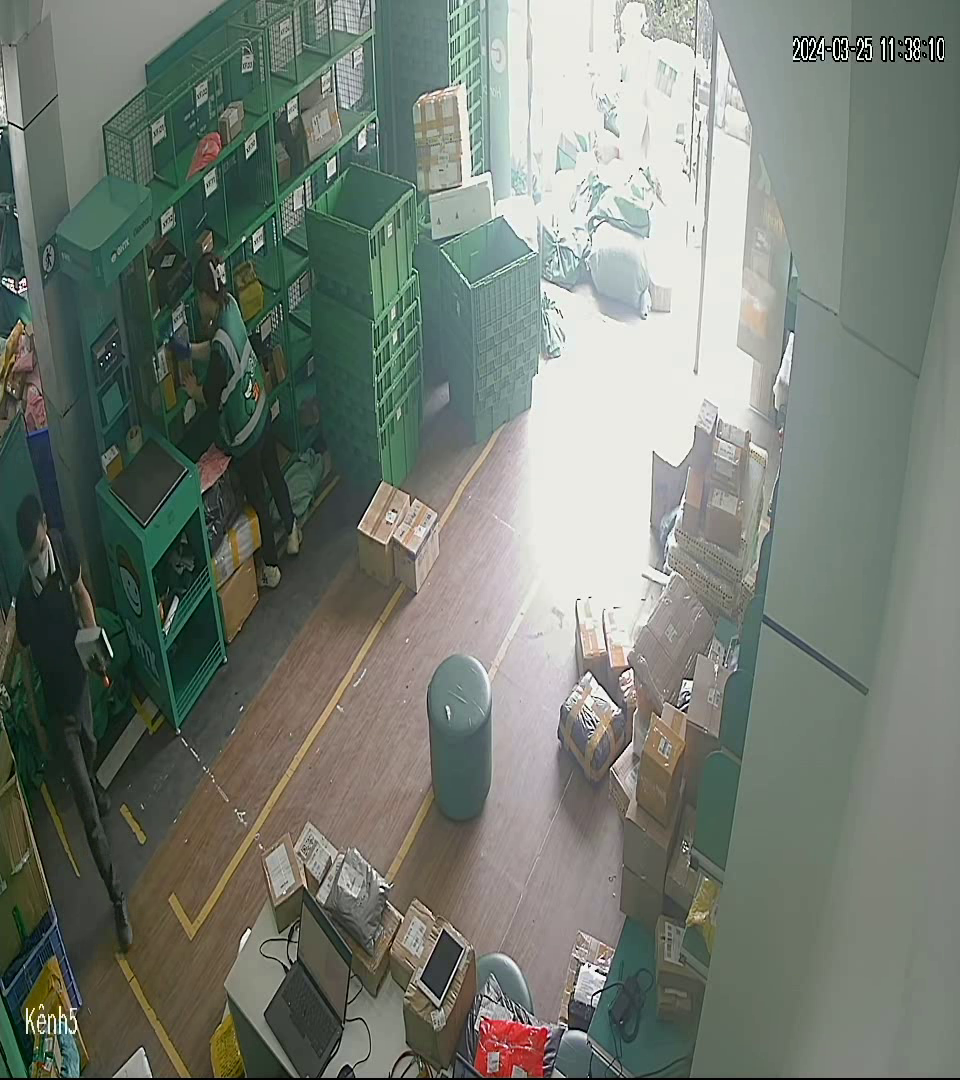
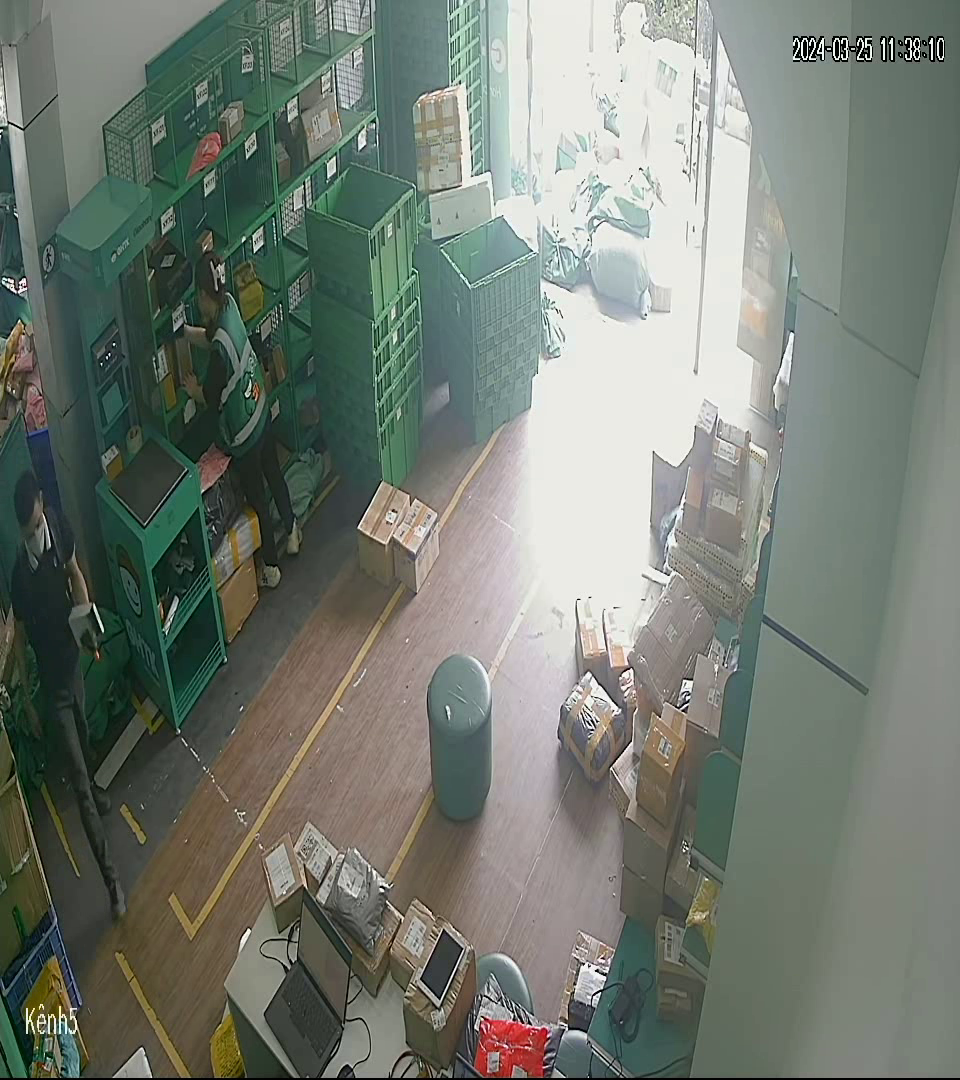
Add contour

diff --git a/motion_detection.py b/motion_detection.py
@@ -1,10 +1,44 @@
 import cv2
+import numpy as np
 
 img1 = cv2.imread("frame1.png", 0)
 img2 = cv2.imread("frame2.png", 0)
 
-grayscale_diff = cv2.absdiff(img1, img2)
+def get_mask(frame1, frame2, kernel = np.ones((3,3), np.uint8)):
 
+    frame_diff = cv2.absdiff(img1, img2)
+
+    frame_diff = cv2.medianBlur(frame_diff, 3)
+
+    mask = cv2.adaptiveThreshold(frame_diff, 255, cv2.ADAPTIVE_THRESH_GAUSSIAN_C,cv2.THRESH_BINARY_INV, 11, 3)
+
+    mask = cv2.medianBlur(mask, 3)
+
+    mask = cv2.morphologyEx(mask, cv2.MORPH_CLOSE, kernel, iterations = 1)
+
+    return mask
+
+def get_contour(mask, thresh = 400):
+    contours, ret = cv2.findContours(mask, 
+                                   cv2.RETR_EXTERNAL, # cv2.RETR_TREE, 
+                                   cv2.CHAIN_APPROX_TC89_L1)
+    detection = []
+    for cnt in contours:
+        x,y,w,h = cv2.boundingRect(cnt)
+        area = w*h
+        if area > thresh:
+            detection.append([x,y,w+x, y+h, area])
+    return np.array(detection)
+
+
+mask = get_mask(img1, img2)
+
+box = get_contour(mask)
+for i in box:
+    print(i)
+
+grayscale_diff = cv2.absdiff(img1, img2)
 cv2.imshow("1",grayscale_diff)
-cv2.imshow("2", img2)
+cv2.imshow("2", mask)
 cv2.waitKey(0)
+

diff --git a/frame_extract.py b/frame_extract.py
@@ -6,7 +6,7 @@ fps = vid.get(cv2.CAP_PROP_FPS)
 
 print(fps)
 
-vid.set(cv2.CAP_PROP_POS_FRAMES, 155)
+vid.set(cv2.CAP_PROP_POS_FRAMES, 153)
 
 ret, frame = vid.read()
 
